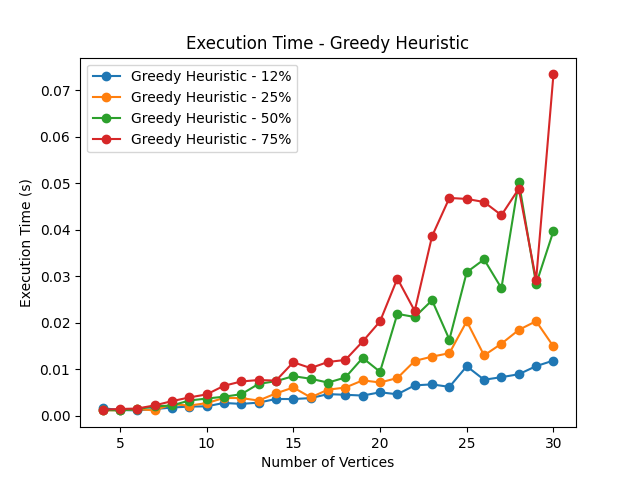
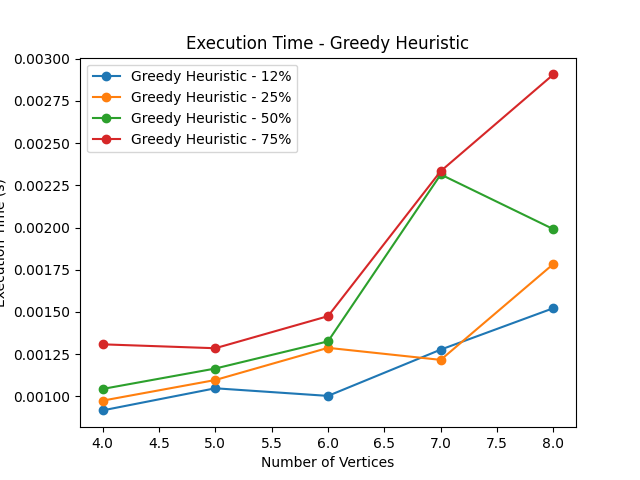
almost final

diff --git a/projeto1/main.py b/projeto1/main.py
@@ -66,7 +66,7 @@ def main():
         graph_file = f"graphs/graphml/graph_num_vertices_{num_vertices}_percentage_{edge_prob}.graphml"
         
         #limitation to 8 vertices because of the time complexity of the exhaustive search (needed for visualization to be limited)
-        if num_vertices <= 7:
+        if num_vertices <= 8:
 
             # Exhaustive Search with profiling
             start_time = time.time()
